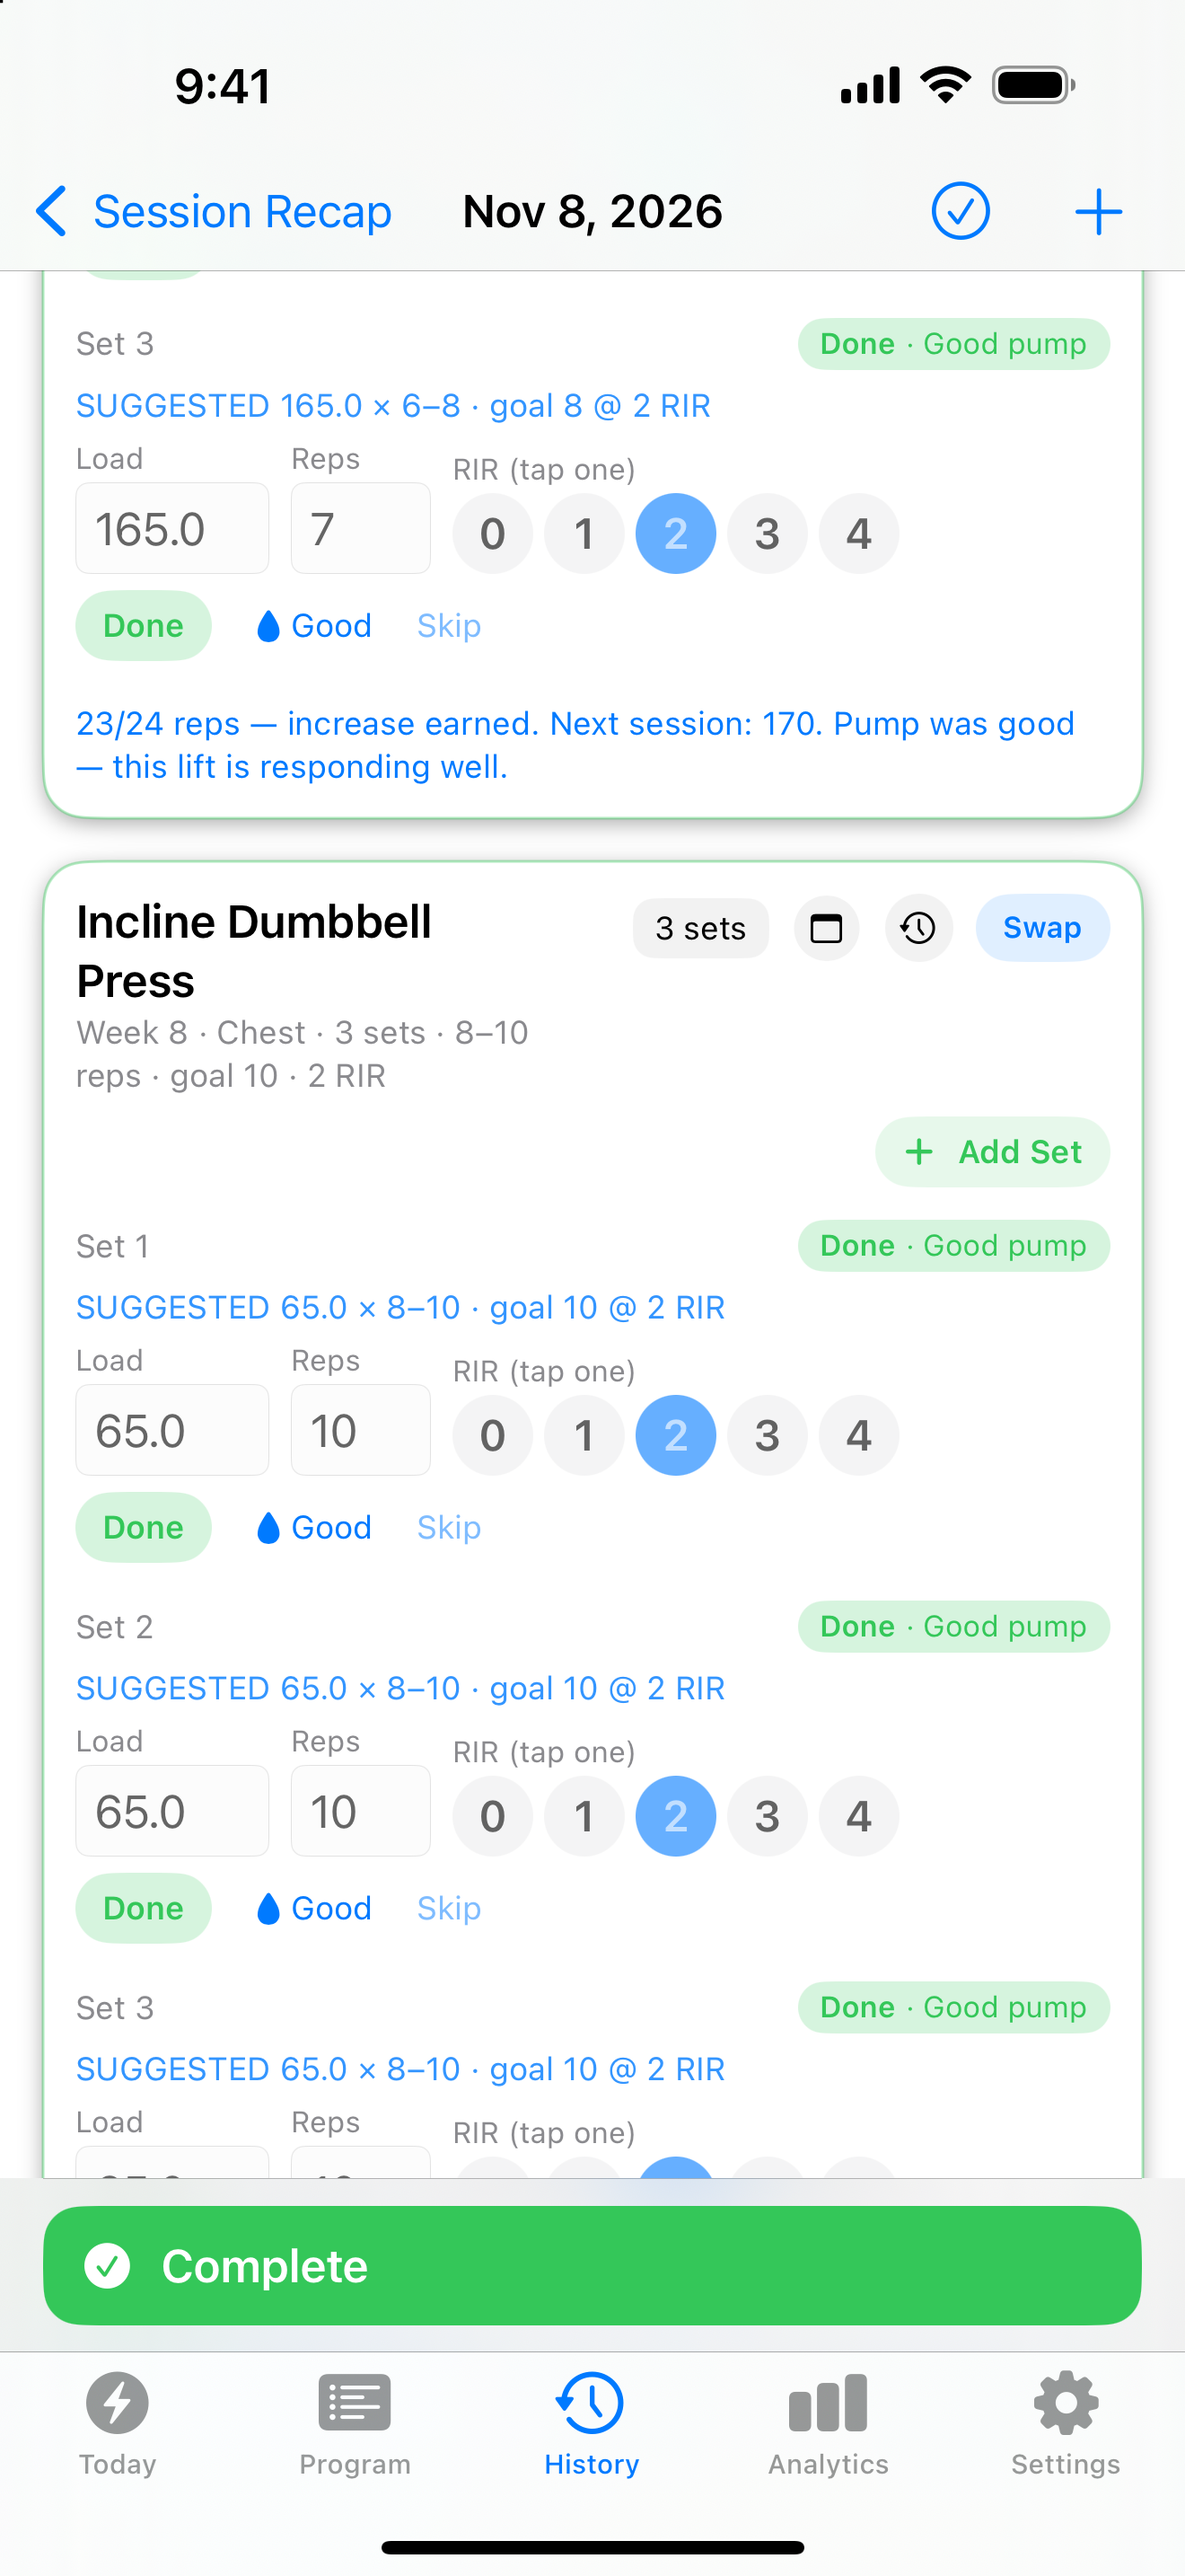
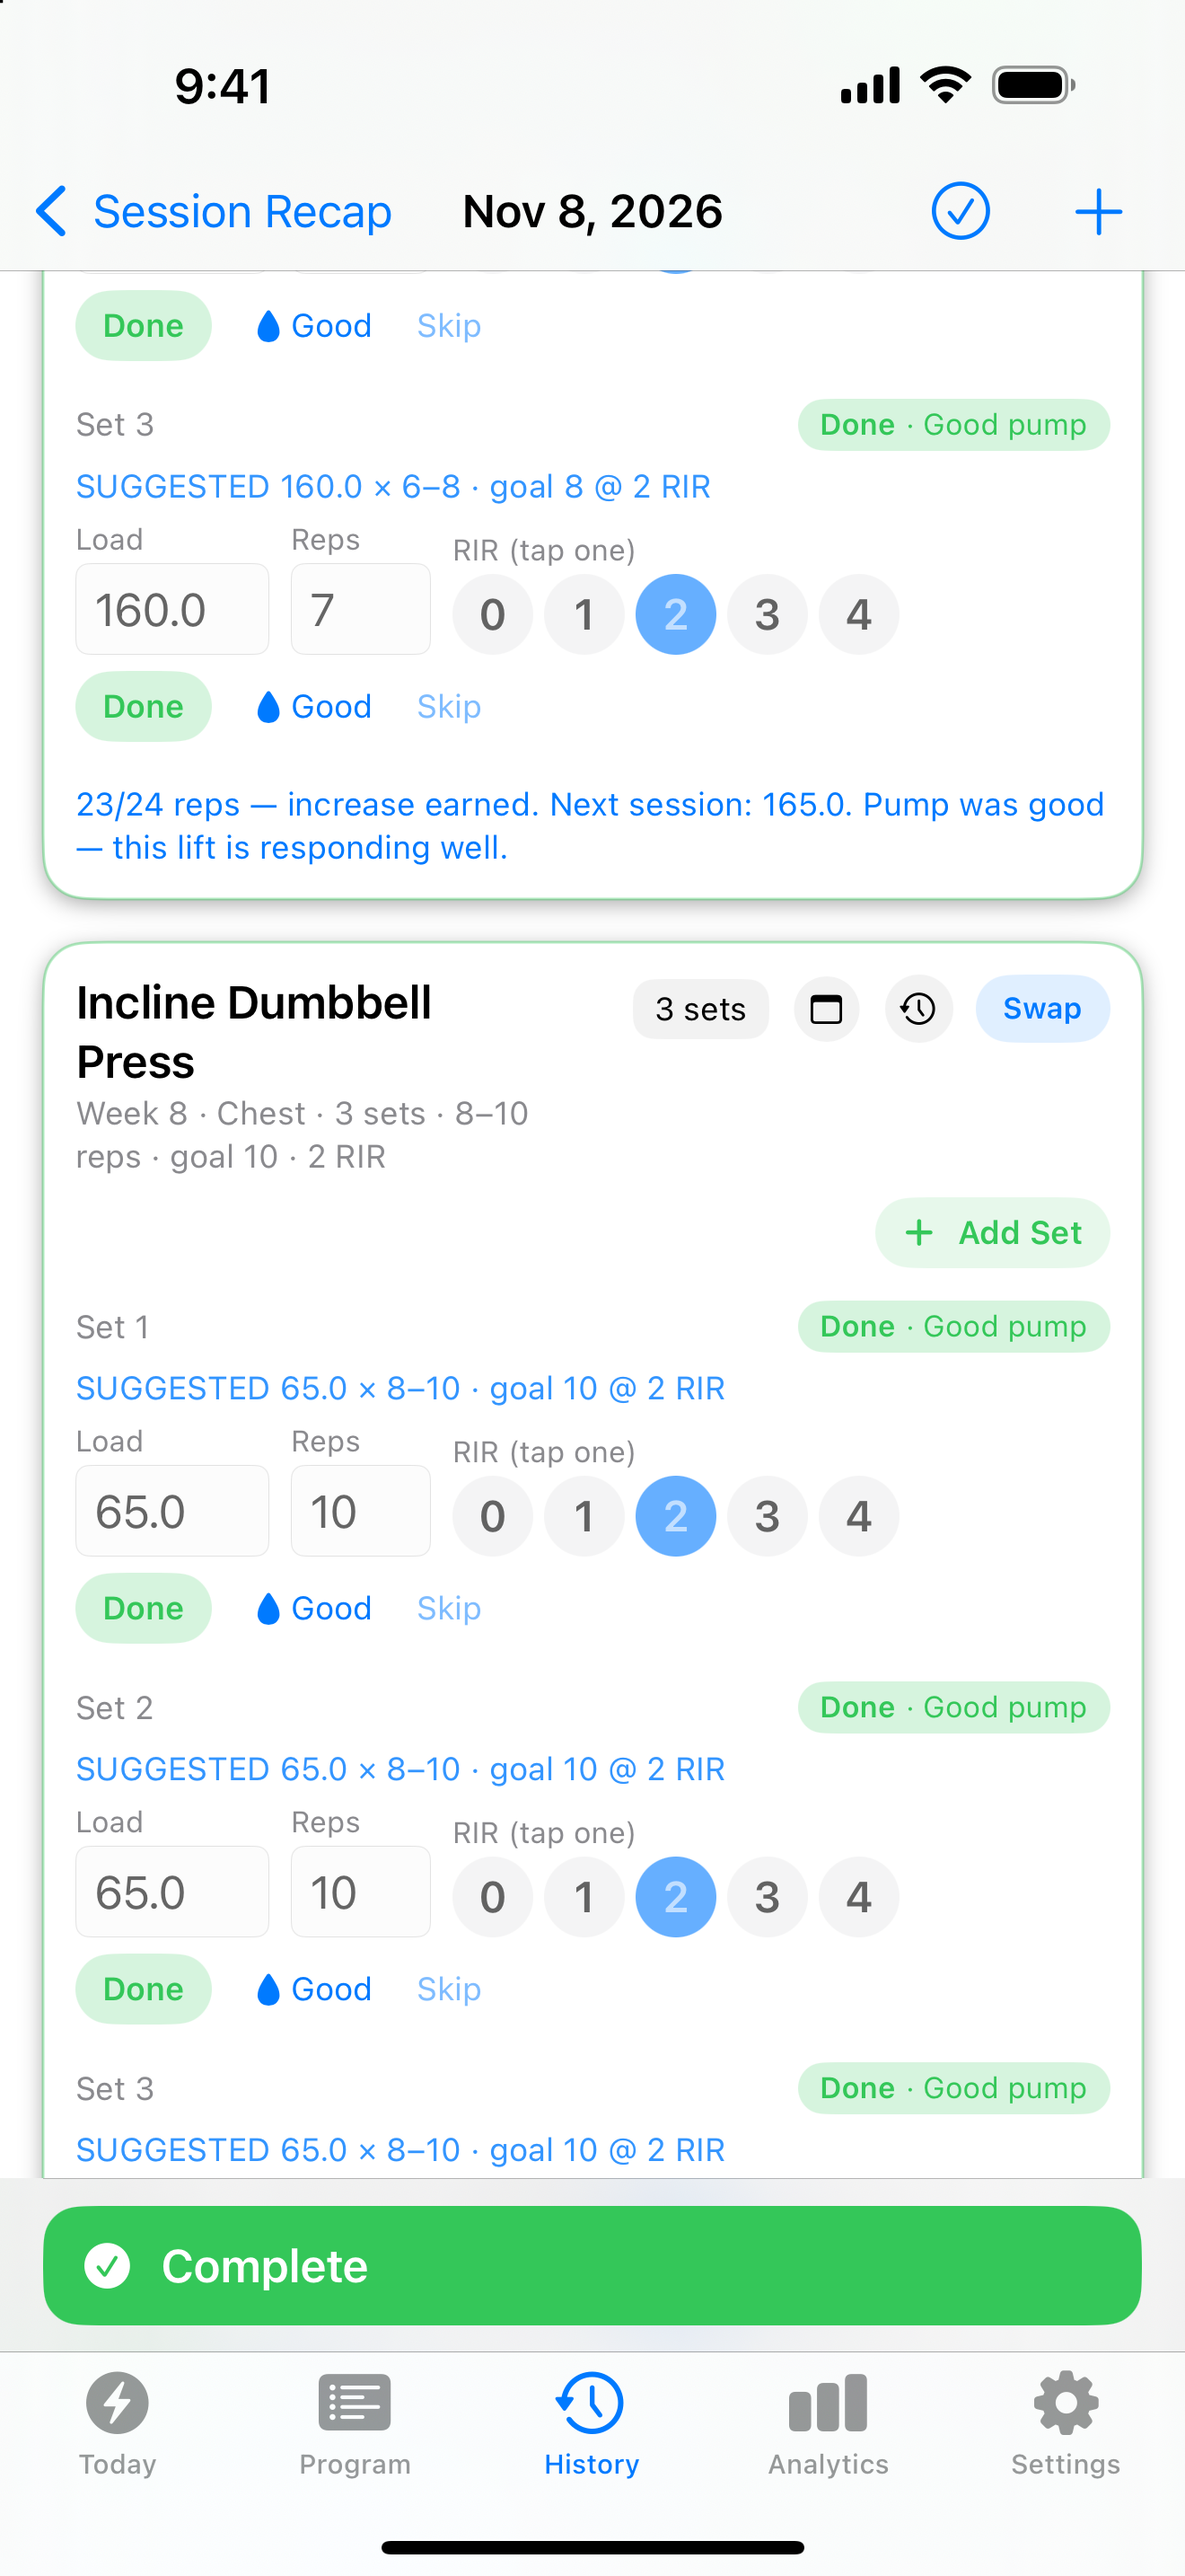
App Store sample: coach notes now come from the real completion path (test-only replay generator through handleSetLogged/CoachingEngine/PlanMemoryEngine); retake 03_coach_notes

diff --git a/Tests/DomainTests/BackupFullRoundTripTests.swift b/Tests/DomainTests/BackupFullRoundTripTests.swift
@@ -3370,3 +3370,78 @@ final class SetRowLayoutTests: XCTestCase {
         XCTAssertTrue(s.contains("@ScaledMetric(relativeTo: .callout) private var chipSize"), "RIR chips scale with Dynamic Type")
     }
 }
+
+// MARK: - App Store sample: coach notes from the REAL completion path (generator, skipped unless the env vars are set)
+
+/// Replays every completed session of the invented App Store sample (scripts/make_appstore_sample.py) through the app's own
+/// set-logging path (`SessionScreenViewModel.handleSetLogged` -> `CoachingEngine`, then `persist` -> `PlanMemoryEngine`), oldest
+/// first, so every coach note and every carried-forward plan is what the engine writes. The sample's reps and RIR are the
+/// lifter's inputs; the load logged is the load the engine suggested for that set.
+///   TEST_RUNNER_EP_SAMPLE_IN=<sample.json> TEST_RUNNER_EP_SAMPLE_OUT=<out.json> scripts/run_bounded.sh -- -only-testing:ElitePerformanceTests/AppStoreSampleReplayTests
+@MainActor
+final class AppStoreSampleReplayTests: XCTestCase {
+    func test_replaySampleThroughTheRealCompletionPath() throws {
+        let env = ProcessInfo.processInfo.environment
+        guard let input = env["EP_SAMPLE_IN"], let output = env["EP_SAMPLE_OUT"], !input.isEmpty, !output.isEmpty else {
+            throw XCTSkip("set TEST_RUNNER_EP_SAMPLE_IN and TEST_RUNNER_EP_SAMPLE_OUT to run the App Store sample generator")
+        }
+        let container = try BackupTestSupport.makeContainer()
+        try BackupSnapshotImporter.importFullBackupJSON(from: URL(fileURLWithPath: input), modelContainer: container, applyingDeviceSideEffects: false)
+        let ctx = ModelContext(container)
+
+        struct Intent { var reps: [Int]; var rirs: [Int]; var loads: [Double] }
+        let completed = try ctx.fetch(FetchDescriptor<Session>()).filter { $0.status == .completed }.sorted { $0.date < $1.date }
+        XCTAssertGreaterThan(completed.count, 50)
+        var noteCount = 0, exerciseCount = 0
+
+        for session in completed {
+            let originalDate = session.date, originalCompleted = session.completedAt ?? session.date
+            var intents: [UUID: Intent] = [:]
+            for item in session.items {
+                if let id = item.id { intents[id] = Intent(reps: item.actualReps, rirs: item.actualRIRs, loads: item.actualLoads) }
+                let n = item.targetSets
+                item.actualReps = Array(repeating: 0, count: n); item.actualLoads = Array(repeating: 0, count: n)
+                item.actualRIRs = RIREntry.unsetArray(count: n)
+                item.pumpRatingsBySet = Array(repeating: 0, count: n)
+                item.isCompleted = false; item.coachNote = nil
+            }
+            session.status = .inProgress
+            session.completedAt = originalCompleted     // persist() only stamps "now" when this is nil; the sample's dates stay
+            try ctx.save()
+
+            let vm = SessionScreenViewModel(session: session)
+            for ex in vm.exercises {
+                guard let itemID = ex.itemID, let intent = intents[itemID] else { continue }
+                for set in ex.sets {
+                    let i = set.index - 1
+                    guard i < intent.reps.count, intent.reps[i] > 0 else { continue }
+                    let suggested = vm.exercises.first(where: { $0.id == ex.id })?.sets.first(where: { $0.index == set.index })?.plannedLoad ?? 0
+                    let load = suggested > 0 ? suggested : intent.loads[i]
+                    vm.updateActualLoad(exerciseID: ex.id, setIndex: set.index, text: load.truncatingRemainder(dividingBy: 1) == 0 ? "\(Int(load))" : "\(load)")
+                    vm.updateActualReps(exerciseID: ex.id, setIndex: set.index, text: "\(intent.reps[i])")
+                    if i < intent.rirs.count, intent.rirs[i] >= 0 { vm.updateActualRIR(exerciseID: ex.id, setIndex: set.index, text: "\(intent.rirs[i])") }
+                    vm.handleSetLogged(exerciseID: ex.id, setIndex: set.index, context: ctx)
+                    vm.setPumpRating(exerciseID: ex.id, setIndex: set.index, rating: .good, context: ctx)
+                }
+            }
+            XCTAssertEqual(session.status, .completed, "\(session.dayLabel ?? "?") W\(session.weekIndex): every planned set was replayed")
+            session.date = originalDate; session.completedAt = originalCompleted
+            exerciseCount += session.items.count
+            noteCount += session.items.filter { ($0.coachNote ?? "").isEmpty == false }.count
+            try ctx.save()
+        }
+
+        // PR flags: the engine does not write isPR here (the Meso Summary computes PR chips from history); the sample sets none.
+        let result = try BackupSnapshotExporter.exportFullBackupJSON(modelContext: ctx)
+        try? FileManager.default.removeItem(atPath: output)
+        try FileManager.default.copyItem(at: result.url, to: URL(fileURLWithPath: output))
+
+        var lines: [String] = []
+        for s in completed.filter({ $0.dayLabel == "Push A" }).suffix(3) {
+            for item in s.items.sorted(by: { $0.order < $1.order }) { lines.append("W\(s.weekIndex) \(s.dayLabel ?? "") | \(item.exerciseNameSnapshot ?? item.exerciseId) | \(item.coachNote ?? "(none)")") }
+        }
+        try lines.joined(separator: "\n").write(toFile: output + ".notes.txt", atomically: true, encoding: .utf8)
+        print("APPSTORE_SAMPLE: replayed \(completed.count) sessions, \(noteCount)/\(exerciseCount) exercises have an engine-written coach note")
+        XCTAssertGreaterThan(noteCount, exerciseCount / 2, "most exercises carry an engine-written note")
+    }
+}
